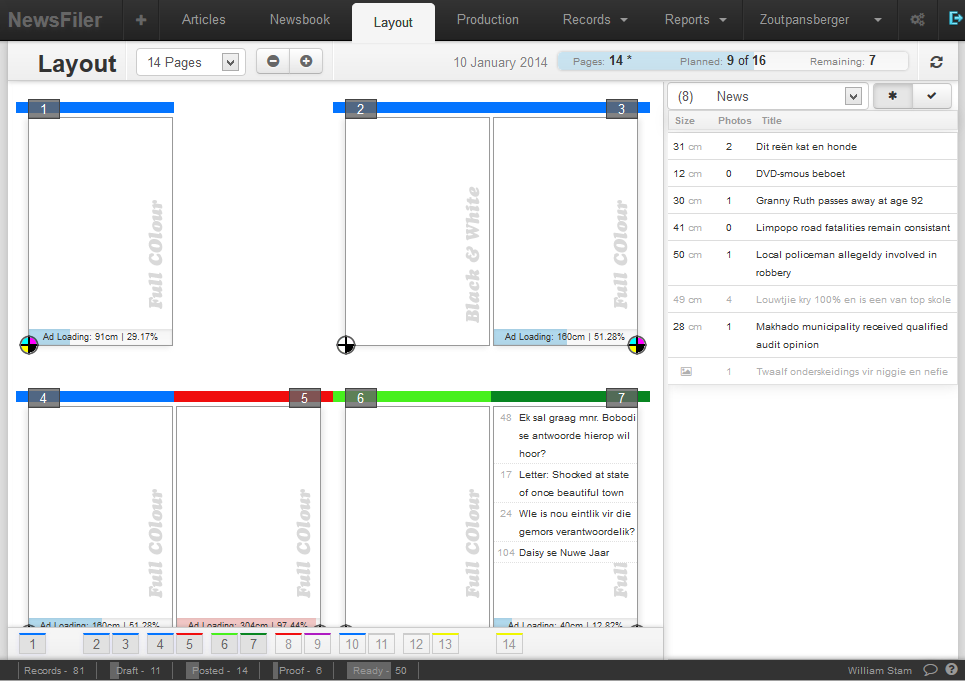
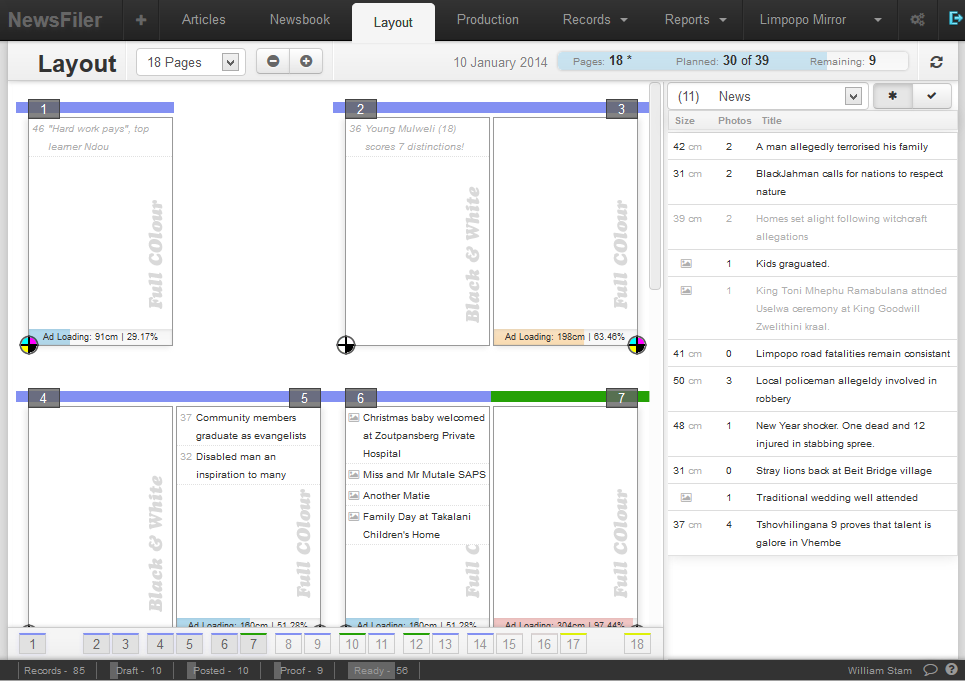
Screenshots * Changed the NF layout screenshot
Global
+ Active users now shows the app the user is in

AdBooker
* Fix for an error on permissions for a marketer

diff --git a/apps/nf/models/notifications.php b/apps/nf/models/notifications.php
@@ -20,18 +20,32 @@ class notifications {
 		$cID = $user['company']['ID'];
 
 		$users = \models\user::getAll("cID='$cID' AND COALESCE(last_activity, 0) > CURDATE() - INTERVAL 2 HOUR", "last_activity DESC, fullName ASC");
+
+		$applications_list = $f3->get("applications");
 		
 		$l = array();
 		foreach ($users as $u){
+			$app = "";
+			foreach ($applications_list as $k=>$v){
+				$start = "/app/".$k;
+
+				if (substr($u['last_page'],0,strlen($start))==$start){
+					$app = $k;
+				}
+			}
+			
+			
 			$l[] = array(
 				"ID"=>$u['ID'],
 				"f"=>$u['fullName'],
 				"t"=>timesince($u['last_activity']),
 				"d"=>$u['last_activity'],
 				"p"=>$u['last_page'],
+				"a"=>strtoupper($app)
 			);
 		}
 		
+		//test_array(array("users"=>$l,"apps"=>$applications_list)); 
 		$return['users'] = $l;
 
 		return $return;

diff --git a/apps/ab/app.php b/apps/ab/app.php
@@ -31,16 +31,22 @@ class app extends \apps\app{
 				$permissions['records']['_nav'] = '1';
 			}
 		}
-
+		
 		if (isset($user['marketer']['ID']) && $user['marketer']['ID']) {
-			$permissions['reports']['_nav'] = '1';
-			$permissions['reports']['marketer']['_nav'] = '1';
+			
 			foreach ($permissions['reports']['marketer'] as $k => $p) {
-				$permissions['reports']['marketer'][$k]['spage'] = '1';
+				if (isset($permissions['reports']['marketer'][$k])) {
+					if (is_array($permissions['reports']['marketer'][$k])) {
+						$permissions['reports']['marketer'][$k]['spage'] = '1';
+					}
+				}
 
 			}
-
+			$permissions['reports']['_nav'] = '1';
+			$permissions['reports']['marketer']['_nav'] = '1';
 		}
+
+		//test_array($permissions);
 		$user['permissions'] = $permissions;
 		$this->user = $user;
 

diff --git a/apps/ab/models/notifications.php b/apps/ab/models/notifications.php
@@ -21,14 +21,27 @@ class notifications {
 
 		$users = \models\user::getAll("cID='$cID' AND COALESCE(last_activity, 0) > CURDATE() - INTERVAL 2 HOUR", "last_activity DESC, fullName ASC");
 
+		$applications_list = $f3->get("applications");
+
 		$l = array();
 		foreach ($users as $u){
+			$app = "";
+			foreach ($applications_list as $k=>$v){
+				$start = "/app/".$k;
+
+				if (substr($u['last_page'],0,strlen($start))==$start){
+					$app = $k;
+				}
+			}
+
+
 			$l[] = array(
 				"ID"=>$u['ID'],
 				"f"=>$u['fullName'],
 				"t"=>timesince($u['last_activity']),
 				"d"=>$u['last_activity'],
 				"p"=>$u['last_page'],
+				"a"=>strtoupper($app)
 			);
 		}
 
